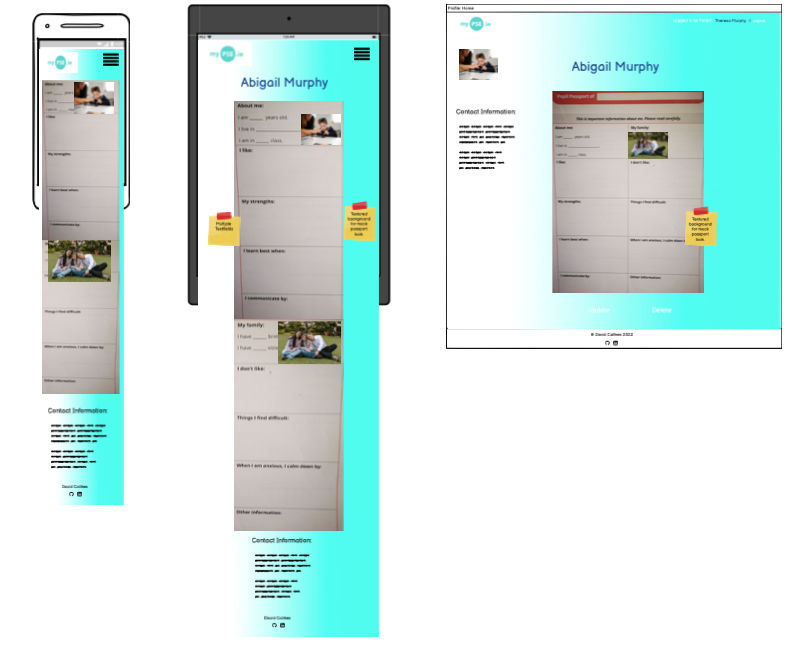
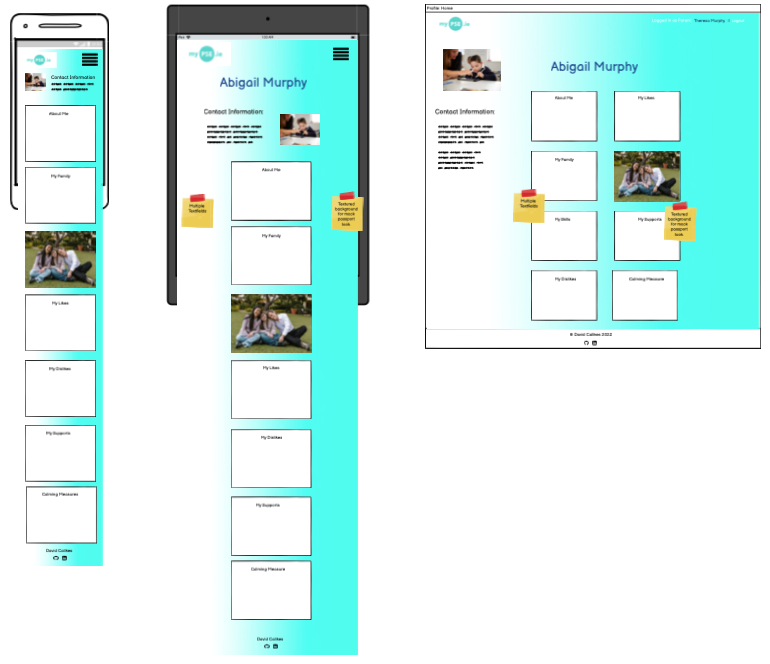
docs: Update visual design section of README.md

diff --git a/docs/README.md b/docs/README.md
@@ -596,24 +596,37 @@ The relationships between the data tables are designed in order to solve the pro
 
 ## Wireframes
 
-I designed wireframes for reference as I began to develop the application. They are instructive as to how the site should display across multiple device widths.
+I designed wireframes for reference as I began to develop the application. They are instructive as to how I wanted the app to display across multiple device widths. I deviated slightly from the original design as I had to add extra views and templates to request security information etc but for the most part the essence of the site and how I initially wanted to display it is evident here. 
+
+Because this was my first time using Django as a project framework and my first time creating a full stack application, I was unsure at the beginning of how I would approach the CRUD functionality of the app. Initially I had envisioned a blank template passport that a user could edit one field at a time without requiring to resubmit the entire form. Unfortunately, this was beyond my current skillset given the short period of time I had to complete the project. 
 
 <img src="../docs/readme_images/wireframes_home.png"><br>
 _Home Page Wireframe_
 
+<img src="../docs/readme_images/wireframes_about.png"><br>
+_About Page Wireframe_
+
 <img src="../docs/readme_images/wireframes_login.png"><br>
 _Login Page Wireframe_
-
-<img src="../docs/readme_images/wireframes_passport_list.png"><br>
-_Passport List Wireframe_
 
 <img src="../docs/readme_images/wireframes_school_admin.png"><br>
 _School Admin Wireframe_
 
+I deviated from both the pupil record and passport list wireframes by creating a more user friendly and visually pleasing layout for each page.
+
+<img src="../docs/readme_images/wireframes_add_pupil.png"><br>
+_Add_Pupil Form Wireframe_
+
+<img src="../docs/readme_images/wireframes_passport_list.png"><br>
+_Passport List Wireframe_
+
+<img src="../docs/readme_images/wireframes_add_passport.png"><br>
+_Passport Form Wireframe_
+
 <img src="../docs/readme_images/wireframes_passport.png"><br>
 _Passport Wireframe_
 
-Due to the scope of this application and how similar many of the pages are, I thought it unnecessary to include every single page here. Take the passport page for example. The passport layout will be the same for every user type except for minor visual/functional changes such as the removal of edit/delete buttons for teachers. The wireframes reflect the general feeling I had at the beginning of the project regarding the styling, layout and functionality. 
+Due to the scope of this application and how similar many of the pages are, I thought it unnecessary to include every single page here. Take the passport page for example. The passport layout will be the same for every user type except for minor visual/functional changes such as the removal of edit/delete buttons for teachers.
 
 
 ## Color Scheme
